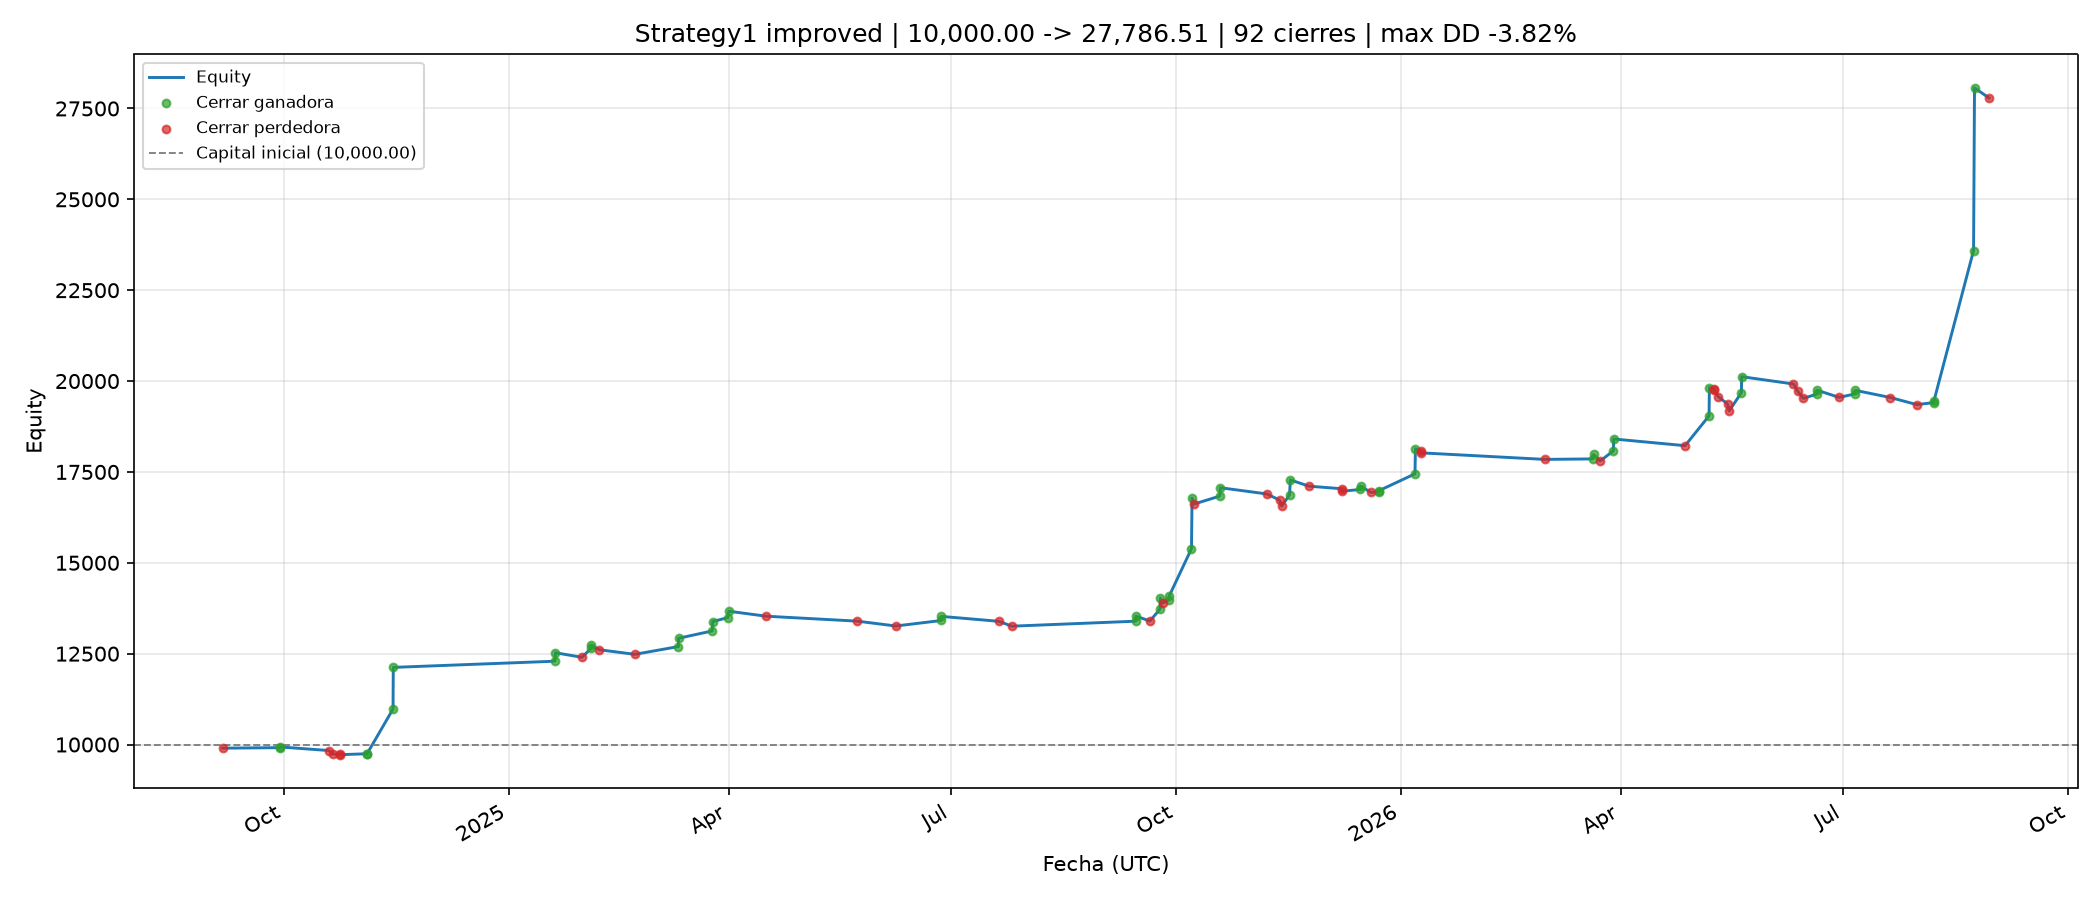
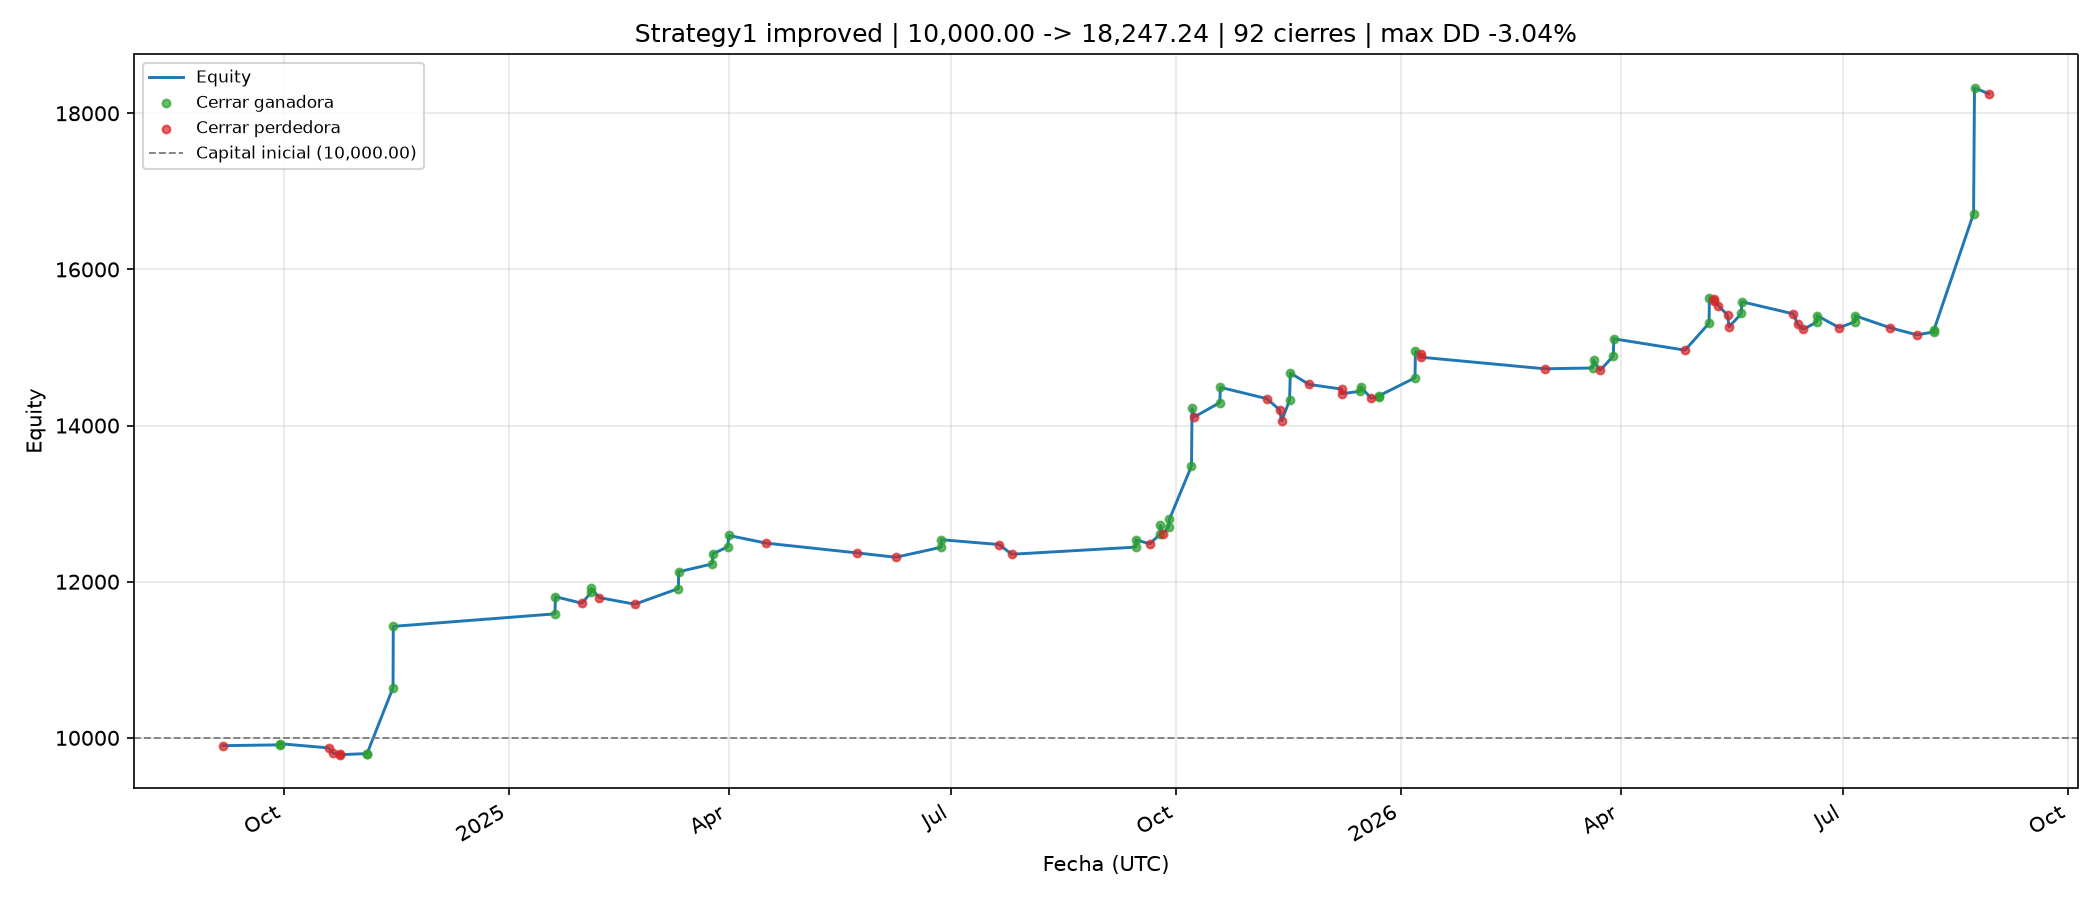
update

diff --git a/backend/services/backtest/bin/legacy/strategy/backtest_strategy1.py b/backend/services/backtest/bin/legacy/strategy/backtest_strategy1.py
@@ -84,7 +84,7 @@ class Config:
 
     # --- parámetros de la versión improved ---
     risk_pct: float = 0.01              # riesgo por operación (fracción del capital)
-    max_leverage: float = 3.0
+    max_leverage: float = 1.0
     atr_stop_mult: float = 3.0          # stop = k * ATR(15m)
     atr_stop_min_pct: float = 0.004     # tope inferior del stop (fracción)
     atr_stop_max_pct: float = 0.015     # tope superior del stop (fracción)
